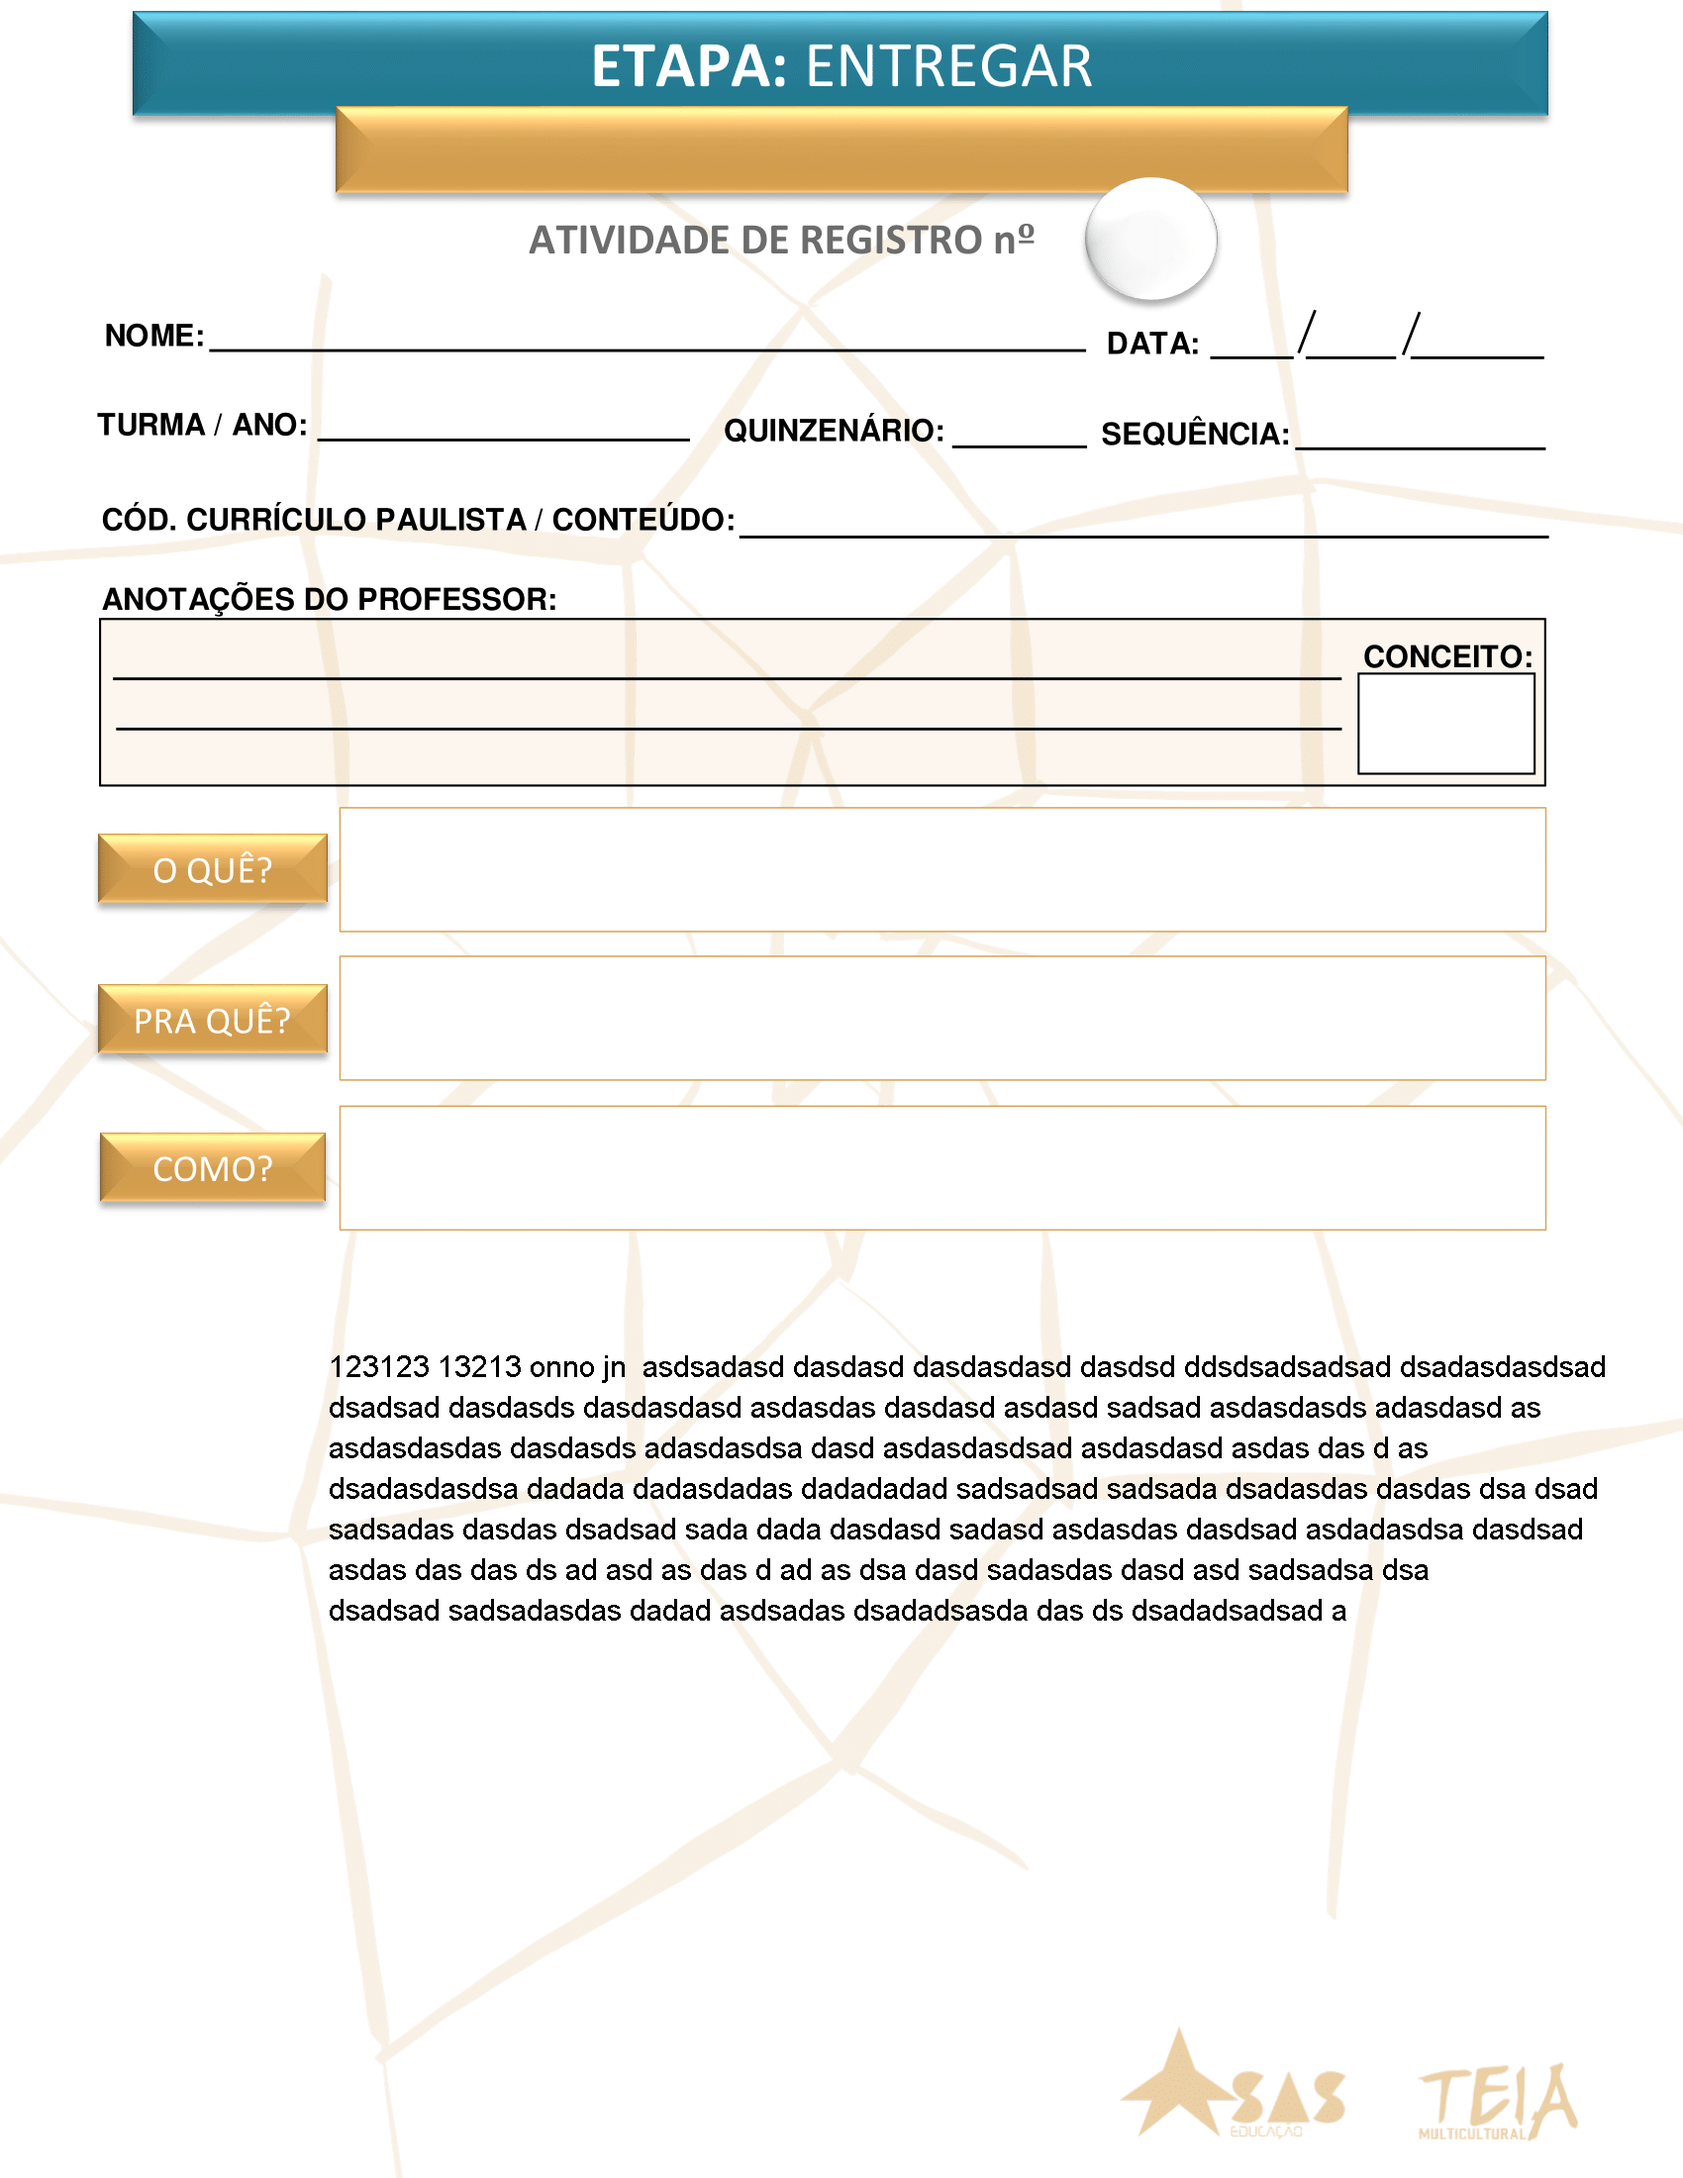
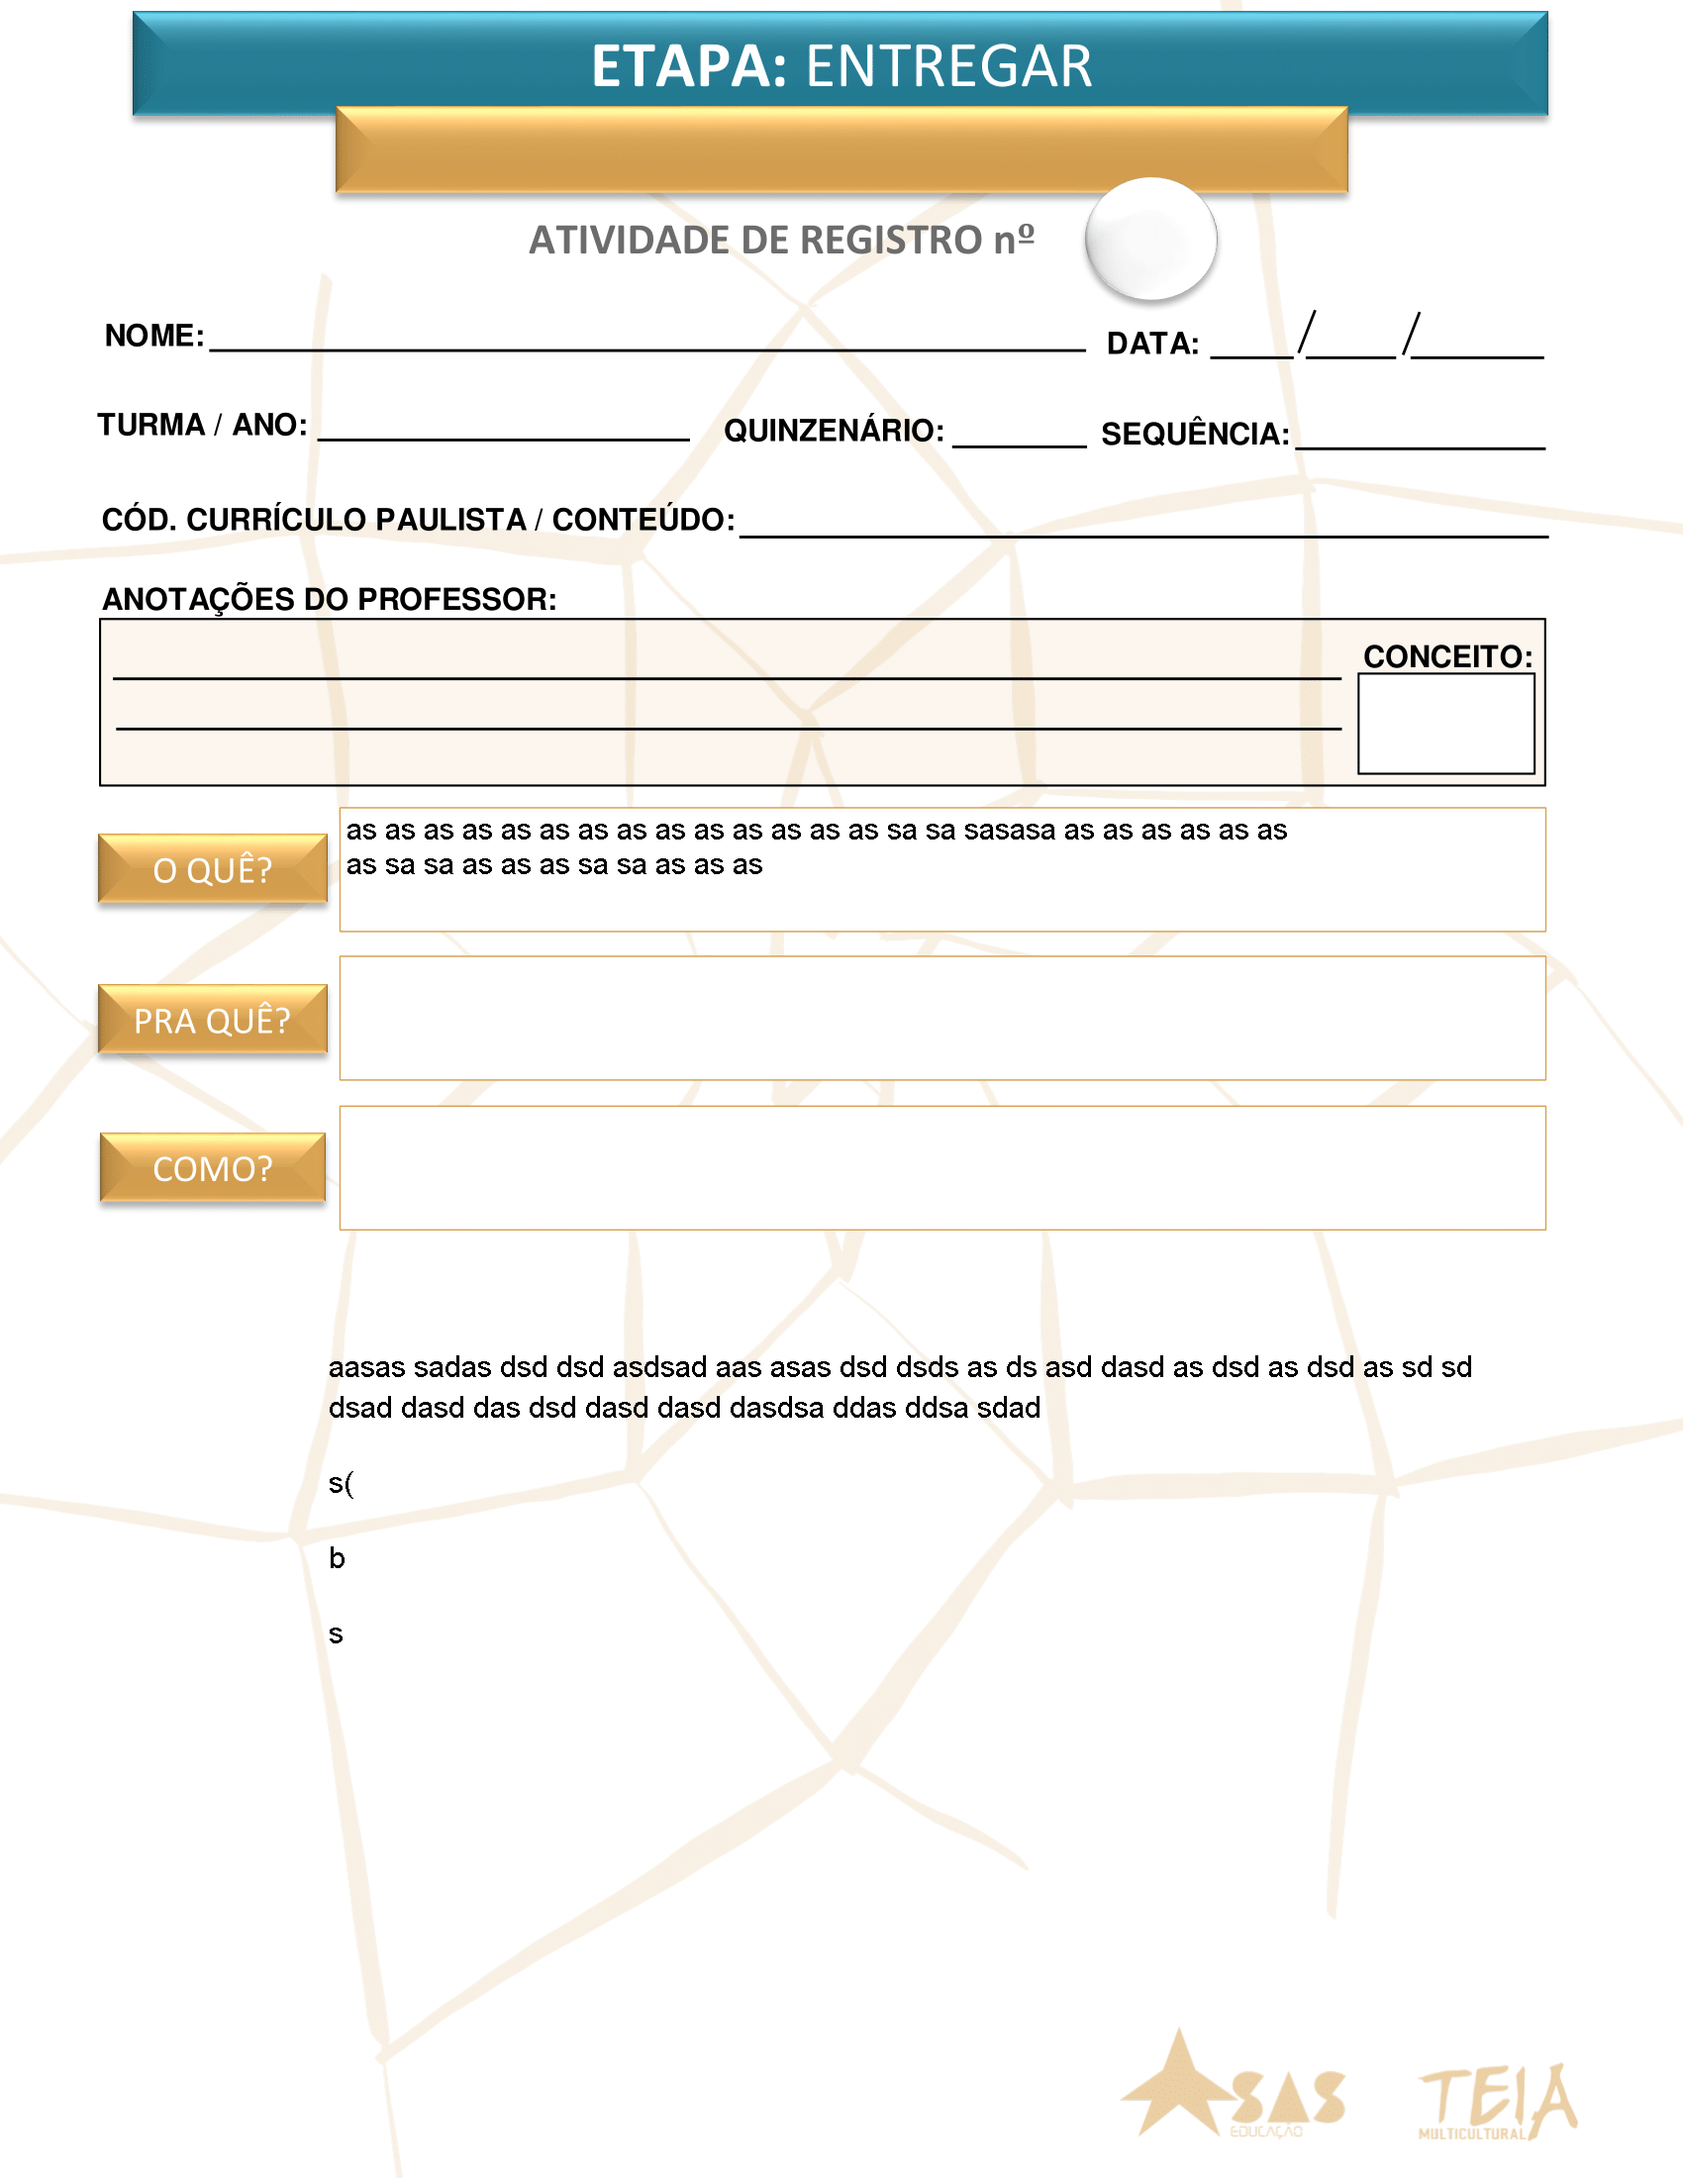
limites

Changed region(s): [[0.1871, 0.6182, 0.9353, 0.7418], [0.2182, 0.3709, 0.4676, 0.4018], [0.5924, 0.3709, 0.6235, 0.4018]]

diff --git a/script-preencher-light-mode.py b/script-preencher-light-mode.py
@@ -1,4 +1,3 @@
-#SEM TTKBOOSTRAP
 import io
 import textwrap
 from urllib.request import urlopen
@@ -122,27 +121,27 @@ def criar_primeira_pagina():
                 draw.text((332, y), wrapped_line, font=firstFont, fill='black')
                 y += firstFont.getbbox(wrapped_line)[1] + 35
             y+=35
-        y += 35  
+         
     messagebox.showinfo("Sucesso", "Arquivo criado com sucesso! Eles serão armazenados na pasta ABRIR > fichas")
 
     def wrap_text(text, width):
         return textwrap.wrap(text, width=width)
-
-    wrapped_o_que = wrap_text(strings[7], 74)
+    
+    wrapped_o_que = wrap_text_with_line_breaks(strings[7], 74)
 
     o_que_y = 820
     for line in wrapped_o_que:
         draw.text((350, o_que_y), line, font=firstFont, fill='black')
         o_que_y += 35
 
-    wrapped_pra_que = wrap_text(strings[8], 74)
+    wrapped_pra_que = wrap_text_with_line_breaks(strings[8], 74)
 
     pra_que_y = 980
     for line in wrapped_pra_que:
         draw.text((350, pra_que_y), line, font=firstFont, fill='black')
         pra_que_y += 35
 
-    wrapped_como = wrap_text(strings[9], 74)
+    wrapped_como = wrap_text_with_line_breaks(strings[9], 74)
 
     como_y = 1120
     for line in wrapped_como:
@@ -155,6 +154,15 @@ def criar_primeira_pagina():
     img.save("primeira-pagina.png", dpi=(300, 300))
 
     return strings
+def wrap_text_with_line_breaks(text, width):
+    lines = text.split("\n")  # Split the text into lines
+    wrapped_lines = []
+
+    for line in lines:
+        wrapped = textwrap.wrap(line, width=width)
+        wrapped_lines.extend(wrapped)
+
+    return wrapped_lines
 
 
 
@@ -165,7 +173,6 @@ def criar_segunda_pagina():
     firstFont = ImageFont.truetype(normal_font, 30)
 
     instrucoes2 = instrucoes_text2.get("1.0", "end")
-    wrapped_instrucoes = textwrap.wrap(instrucoes2, width=50)
     lines = instrucoes2.splitlines()
 
     img = Image.open("templates/other-1.png")
@@ -187,7 +194,7 @@ def criar_segunda_pagina():
 
 
 
-# Crie a janela principal
+# Crie a janela principal   
 window = ThemedTk(theme="breeze") 
 window.title("Preenchedor de ficha")
 
@@ -269,94 +276,33 @@ def validate_input_o_que(event):
     return True
 
 
-#---------------------------------------------------------------------------------
-
-MAX_LINES_INSTRUCOES = 7
-CHARACTER_LIMIT= 600
-# dsdsdsd 
-def validate_input_instrucoes(event):
-    lines = instrucoes_text.get("1.0", "end-1c").split('\n')
-    characters = len(instrucoes_text.get("1.0", "end-1c"))
-    current_line = int(instrucoes_text.index("insert").split('.')[0])
-
-    if len(lines) > MAX_LINES_INSTRUCOES or characters > CHARACTER_LIMIT:
-        
-        if len(lines) > MAX_LINES_INSTRUCOES:
-            instrucoes_text.delete(f"{current_line}.0", "end")
-
-        
-        if characters > CHARACTER_LIMIT:
-            instrucoes_text.delete("end-2c")
-
-        
-        instrucoes_text.config(state="disabled")
-        messagebox.showinfo("Limite!", "Você chegou ao limite da primeira página. Para dar continuação, use a caixa de texto abaixo.")
-
-    else:
-        instrucoes_text.config(state="normal")  
-
-    return True
-
-def validate_paste_instrucoes(event):
-    pasted_text = event.widget.selection_get(selection="CLIPBOARD")
-    lines = instrucoes_text.get("1.0", "end-1c").split('\n')
-    characters = len(instrucoes_text.get("1.0", "end-1c"))
-    total_lines = len(lines) + pasted_text.count('\n')
-    total_characters = characters + len(pasted_text)
-
-    if total_lines > MAX_LINES_INSTRUCOES or total_characters > CHARACTER_LIMIT:
-        # Display a warning message
-        messagebox.showinfo("Limit Exceeded", "Pasted text exceeds the line or character limit.")
-        return "break"  # Prevent the paste operation
-
-    # Perform the regular input validation
-    validate_input_instrucoes(event)
-#-----------------------#-----------------------#-----------------------#-----------------------#-----------------------
-MAX_LINES_INSTRUCOES_SECOND_PAGE = 24
-CHARACTER_LIMIT_SECOND_PAGE = 1400
-# dsdsdsd 
-def validate_input_instrucoes_second_page(event):
-    lines = instrucoes_text2.get("1.0", "end-1c").split('\n')
-    characters = len(instrucoes_text2.get("1.0", "end-1c"))
-    current_line = int(instrucoes_text2.index("insert").split('.')[0])
-
-    if len(lines) > MAX_LINES_INSTRUCOES_SECOND_PAGE or characters > CHARACTER_LIMIT_SECOND_PAGE:
-        
-        if len(lines) > MAX_LINES_INSTRUCOES_SECOND_PAGE:
-            instrucoes_text2.delete(f"{current_line}.0", "end")
-
-        
-        if characters > CHARACTER_LIMIT_SECOND_PAGE:
-            instrucoes_text2.delete("end-2c")
-
-        
-        instrucoes_text2.config(state="disabled")
-        messagebox.showinfo("Limite!", "Você chegou ao limite da primeira página. Para dar continuação, use a caixa de texto abaixo.")
-
-    else:
-        instrucoes_text2.config(state="normal")  
-
-    return True
-
-def validate_paste_instrucoes_second_page(event):
-    pasted_text = event.widget.selection_get(selection="CLIPBOARD")
-    lines = instrucoes_text2.get("1.0", "end-1c").split('\n')
-    characters = len(instrucoes_text2.get("1.0", "end-1c"))
-    total_lines = len(lines) + pasted_text.count('\n')
-    total_characters = characters + len(pasted_text)
-
-    if total_lines > MAX_LINES_INSTRUCOES_SECOND_PAGE or total_characters > CHARACTER_LIMIT_SECOND_PAGE:
-        # Display a warning message
-        messagebox.showinfo("Limit Exceeded", "Pasted text exceeds the line or character limit.")
-        return "break"  # Prevent the paste operation
-
-    # Perform the regular input validation
-    validate_input_instrucoes_second_page(event)
-
 #-----------------------#-----------------------#-----------------------#-----------------------#-----------------------
 
+def validate_input_generico(event, input_widget, max_lines, max_characters):
+    if event.widget == input_widget:
+        text = input_widget.get("1.0", "end-1c")
+        lines = text.split('\n')
+        characters = len(text)
+
+        if len(lines) > max_lines or characters > max_characters:
+            if event.keysym == "BackSpace":
+                return None  # Allow deletion of characters when the limit is exceeded
+
+            messagebox.showinfo("Limite!", "Você chegou ao limite da primeira página. Para dar continuação, use a caixa de texto abaixo.")
+            return "break"  # Prevent further input
+
+    return None
 
 
+def validate_paste_generico(event, input_widget, max_characters):
+    pasted_text = event.widget.clipboard_get()
+    if len(pasted_text) > max_characters:
+        messagebox.showinfo("Limite!", "O texto colado excede o limite.")
+        return "break"  
+    else:
+        return None
+
+#-----------------------#-----------------------#-----------------------#-----------------------#-----------------------
 
 
 def set_character_limit(limit):
@@ -390,18 +336,13 @@ instrucoes_label.grid(row=0, column=4, padx=5, pady=5, sticky="w")
 
 instrucoes_text = tk.Text(text_frame, height=5, bg="white", wrap = 'word', font=("Arial", 10))
 instrucoes_text.grid(row=1, column=4, padx=5, pady=5, sticky="nsew")
-instrucoes_text.bind("<Key>", validate_input_instrucoes)
-instrucoes_text.bind("<KeyRelease>", validate_input_instrucoes)
-instrucoes_text.bind("<Control-v>", validate_paste_instrucoes)
+
 
 instrucoes_label2 = ttk.Label(text_frame, text="INTRUÇÕES (segunda página):", font=("Arial", 12, "bold"))
 instrucoes_label2.grid(row=2, column=4, padx=5, pady=5, sticky="w")
 
 instrucoes_text2 = tk.Text(text_frame, height=5, bg="white", wrap = 'word', font=("Arial", 10))
 instrucoes_text2.grid(row=3, column=4, padx=5, pady=5, sticky="nsew")
-instrucoes_text2.bind("<Key>", validate_input_instrucoes_second_page)
-instrucoes_text2.bind("<KeyRelease>", validate_input_instrucoes_second_page)
-instrucoes_text2.bind("<Control-v>", validate_paste_instrucoes_second_page)
 
 button_frame = tk.Frame(window)
 button_frame.pack(pady=10)
@@ -412,22 +353,26 @@ sair_button.pack(side="left", padx=10)
 criar_button = tk.Button(button_frame, text="CRIAR", command=criar_tudo, bg="#90EE90", relief="solid", bd=0)
 criar_button.pack(side="left", padx=10)
 
+instrucoes_text.bind("<Key>", lambda event: validate_input_generico(event, instrucoes_text, 40, 770))
+instrucoes_text.bind("<KeyRelease>", lambda event: validate_input_generico(event, instrucoes_text, 40, 770))
+instrucoes_text.bind("<Control-v>", lambda event: validate_paste_generico(event, instrucoes_text, 770))
 
-instrucoes_text.bind("<KeyPress>", validate_input_instrucoes)
-instrucoes_text.bind("<KeyRelease>", validate_input_instrucoes)
-
-instrucoes_text2.bind("<KeyPress>", validate_input_instrucoes_second_page)
-instrucoes_text2.bind("<KeyRelease>", validate_input_instrucoes_second_page)
+instrucoes_text2.bind("<Key>", lambda event: validate_input_generico(event, instrucoes_text2, 22, 3340))
+instrucoes_text2.bind("<KeyRelease>", lambda event: validate_input_generico(event, instrucoes_text2, 22, 3430))
+instrucoes_text2.bind("<Control-v>", lambda event: validate_paste_generico(event, instrucoes_text2, 4344))
 
 
-como_text.bind("<KeyPress>", validate_input_como)
-como_text.bind("<KeyRelease>", validate_input_como)
+como_text.bind("<Key>", lambda event: validate_input_generico(event, como_text, 2, 200))
+como_text.bind("<KeyRelease>", lambda event: validate_input_generico(event, como_text, 2, 200))
+como_text.bind("<Control-v>", lambda event: validate_paste_generico(event, como_text, 200))
 
-pra_que_text.bind("<KeyPress>", validate_input_pra_que)
-pra_que_text.bind("<KeyRelease>", validate_input_pra_que)
+pra_que_text.bind("<Key>", lambda event: validate_input_generico(event, pra_que_text, 2, 200))
+pra_que_text.bind("<KeyRelease>", lambda event: validate_input_generico(event, pra_que_text, 2, 200))
+pra_que_text.bind("<Control-v>", lambda event: validate_paste_generico(event, o_que_text, 200))
 
-o_que_text.bind("<KeyPress>", validate_input_o_que)
-o_que_text.bind("<KeyRelease>", validate_input_o_que)
+o_que_text.bind("<Key>", lambda event: validate_input_generico(event, o_que_text, 2, 200))
+o_que_text.bind("<KeyRelease>", lambda event: validate_input_generico(event, o_que_text, 2, 200))
+o_que_text.bind("<Control-v>", lambda event: validate_paste_generico(event, o_que_text, 200))
 
 
 frame.grid_rowconfigure(0, weight=1)
